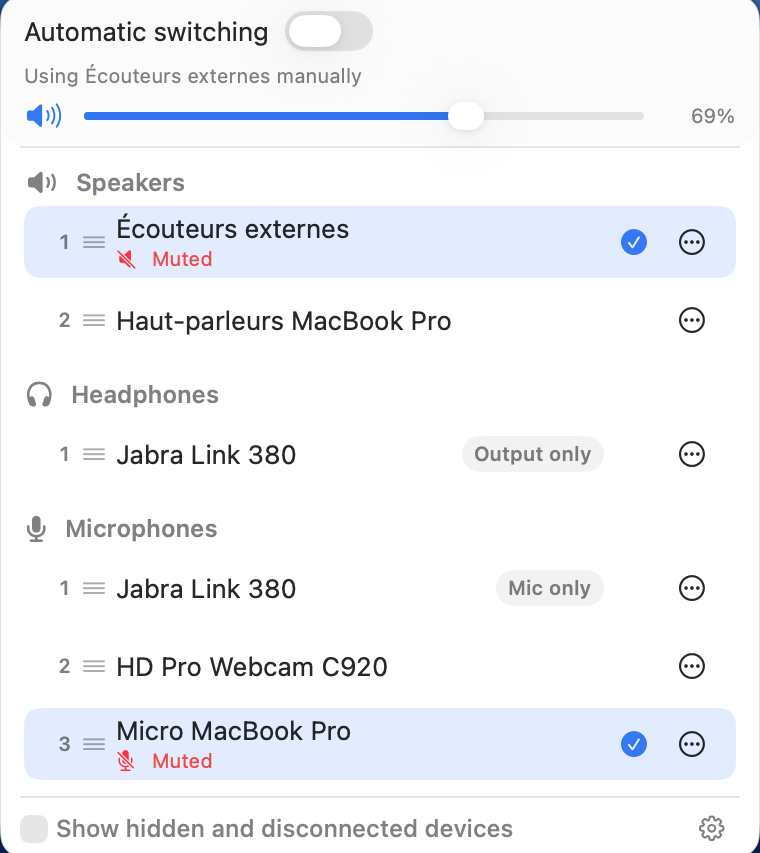
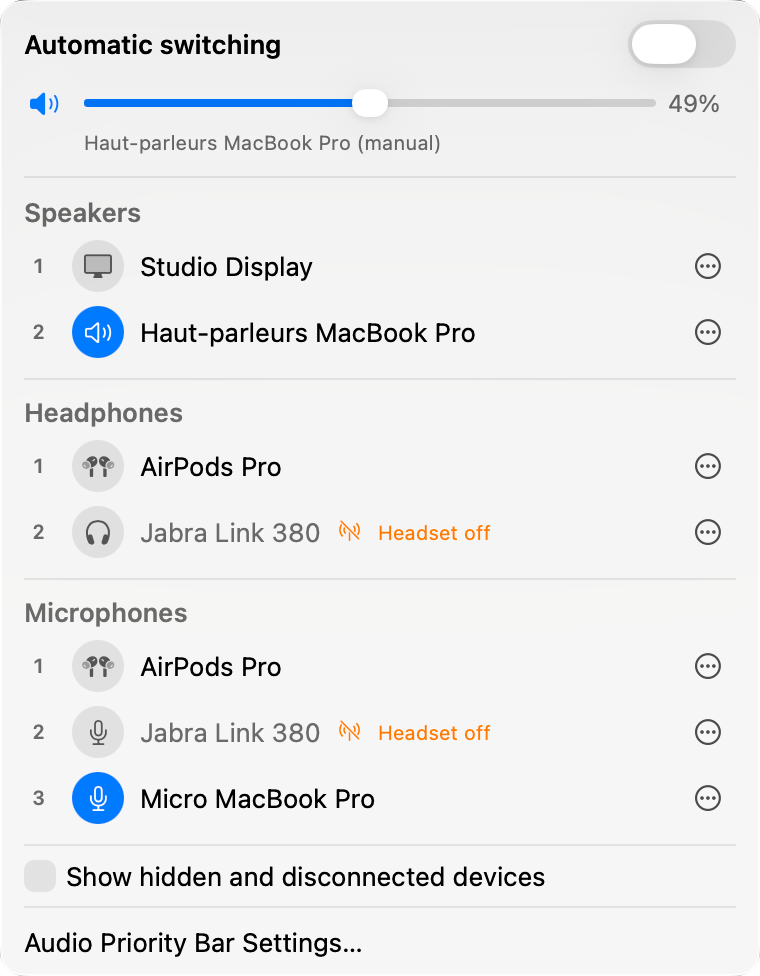
docs: refresh the README for the new panel
Retake both screenshots against the redesigned panel and reorganise the
README: a centred header with quick links, a short explanation of the problem,
features grouped by area, numbered install steps, and the rarely needed parts
folded away. The right-click menu is described as it is: Settings, Check for
Updates, and Quit.

The screenshots were taken over a plain backdrop, since Liquid Glass shows
whatever sits behind the panel. The AirPods Pro and Studio Display rows are
two temporary aggregate devices standing in for hardware that wasn't at hand;
their icons are the ones real devices get, because the icon is chosen from the
device name first.

diff --git a/README.md b/README.md
@@ -1,35 +1,71 @@
-# Audio Priority Bar
-
 <p align="center">
   <img src="AudioPriorityBar/Assets.xcassets/AppIcon.appiconset/icon_512x512@2x.png" width="128" height="128" alt="Audio Priority Bar icon">
 </p>
 
-A native macOS menu bar app that automatically switches to your
-highest-priority connected headphones, speakers, and microphone.
+<h1 align="center">Audio Priority Bar</h1>
 
-![macOS 14+](https://img.shields.io/badge/macOS-14%2B-blue)
-![Swift 6](https://img.shields.io/badge/Swift-6-orange)
-![MIT License](https://img.shields.io/badge/license-MIT-green)
+<p align="center">
+  A native macOS menu bar app that automatically switches to your
+  highest-priority connected headphones, speakers, and microphone.
+</p>
+
+<p align="center">
+  <img src="https://img.shields.io/badge/macOS-14%2B-blue" alt="macOS 14+">
+  <img src="https://img.shields.io/badge/Swift-6-orange" alt="Swift 6">
+  <img src="https://img.shields.io/badge/license-MIT-green" alt="MIT License">
+</p>
+
+<p align="center">
+  <a href="#install">Install</a> ·
+  <a href="#features">Features</a> ·
+  <a href="#use">Use</a> ·
+  <a href="#contributing">Contributing</a>
+</p>
 
 <p align="center">
   <img src="screenshot-light.png" width="49%" alt="Audio Priority Bar light panel showing automatic switching, volume, and three device priority lists">
   <img src="screenshot-dark.png" width="49%" alt="Audio Priority Bar dark panel showing automatic switching, volume, and three device priority lists">
 </p>
 
+## Why
+
+Connect a display and your sound can move to its speakers. Undock or power on a
+headset, and you pick devices by hand again. Audio Priority Bar keeps a ranked
+list for each kind of device and uses the highest one that is connected.
+
 ## Features
 
-- Automatic switching to your top available headphones, then speakers, with
-  one-click manual override
-- Persistent priority lists for Speakers, Headphones, and Microphones, with
-  drag reordering
-- Volume control by slider or scroll wheel, with mute and availability status
-- Device visibility controls, Never Auto-Select, and remembered devices
+**Switching**
+
+- Uses your top available headphones first, then speakers, and your top
+  microphone
+- One click in the panel picks a device by hand; turn automatic switching back
+  on to resume
+- A USB headset's input and output are selected together, with per-row
+  **Mic only** and **Output only** overrides
+
+**Device lists**
+
+- Separate ranked lists for Speakers, Headphones, and Microphones, reordered by
+  dragging
+- Hide a device, keep one visible but never picked automatically, and remember
+  disconnected devices
 - Output categories taken from what each device reports, in any system language
-- Headset input and output selected together, with per-row Mic only and
-  Output only overrides
-- Settings, right-click quick actions, VoiceOver support, and Open at Login
-- Jabra Link headset power-off detection, asked of the dongle rather than guessed
-- Automatic update checks on launch and daily, with a manual check and an opt-out in Settings
+
+**Panel and menu bar**
+
+- A panel laid out like the macOS Sound menu, with an icon for every device
+- The menu bar icon shows the current output, like AirPods or headphones
+- Liquid Glass on macOS 26, VoiceOver support, and keyboard-accessible actions
+- Volume by slider or scroll wheel, with mute and availability status
+
+**Other**
+
+- Jabra Link headset power-off detection, asked of the dongle rather than
+  guessed
+- Right-click the menu bar icon for Settings, Check for Updates, and Quit
+- Open at Login
+- Update checks on launch and daily, with a manual check and an opt-out
 
 ## Install
 
@@ -44,22 +80,26 @@ brew install --cask camguillory/tap/audio-priority-bar
 
 ### Direct download
 
-Download `AudioPriorityBar.zip` and `AudioPriorityBar.zip.sha256` from the
-[latest release](https://github.com/camguillory/Audio-Priority-Bar/releases/latest)
-into the same folder. Verify the archive before unzipping it:
+1. Download `AudioPriorityBar.zip` and `AudioPriorityBar.zip.sha256` from the
+   [latest release](https://github.com/camguillory/Audio-Priority-Bar/releases/latest)
+   into the same folder.
+2. Verify the archive before unzipping it:
 
-```bash
-cd ~/Downloads
-shasum -a 256 -c AudioPriorityBar.zip.sha256
-```
+   ```bash
+   cd ~/Downloads
+   shasum -a 256 -c AudioPriorityBar.zip.sha256
+   ```
 
-Move `AudioPriorityBar.app` to `/Applications`.
+3. Move `AudioPriorityBar.app` to `/Applications`.
 
-### Gatekeeper
+### First launch
 
 Audio Priority Bar is ad-hoc signed, not signed with an Apple Developer ID or
 notarized. If macOS blocks the first launch, open
 **System Settings > Privacy & Security** and click **Open Anyway**.
+
+<details>
+<summary>Or remove the quarantine attribute</summary>
 
 Advanced users may instead remove only this app's quarantine attribute:
 
@@ -67,7 +107,10 @@ Advanced users may instead remove only this app's quarantine attribute:
 xattr -d com.apple.quarantine /Applications/AudioPriorityBar.app
 ```
 
-### Build from source
+</details>
+
+<details>
+<summary>Build from source</summary>
 
 ```bash
 git clone https://github.com/camguillory/Audio-Priority-Bar.git
@@ -78,7 +121,12 @@ cd Audio-Priority-Bar
 The universal, ad-hoc-signed app is written to `dist/AudioPriorityBar.app`.
 You can also open `AudioPriorityBar.xcodeproj` in Xcode and build with Command-R.
 
+</details>
+
 ## Use
+
+Click the icon in the menu bar to open the panel. Your devices are listed by
+priority, and the active one is highlighted.
 
 ### Automatic and manual switching
 
@@ -128,10 +176,13 @@ unrecognised dongle fails open rather than being treated as off.
 May prompt for **Input Monitoring** permission. Open at Login may separately
 need approval in **System Settings > General > Login Items**.
 
-### Upgrading from V1
+<details>
+<summary>Upgrading from V1</summary>
 
 V2 imports V1 settings once on first launch (existing V2 values win). The new
 bundle identifier may require re-approving Input Monitoring or Open at Login.
+
+</details>
 
 ## Contributing
 
